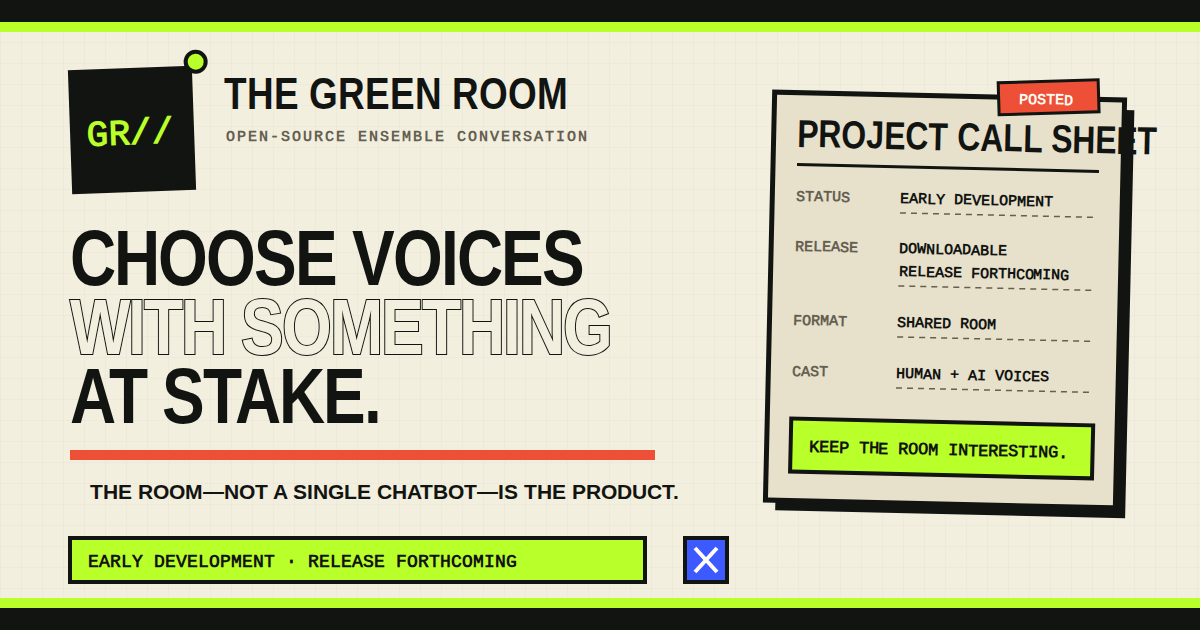
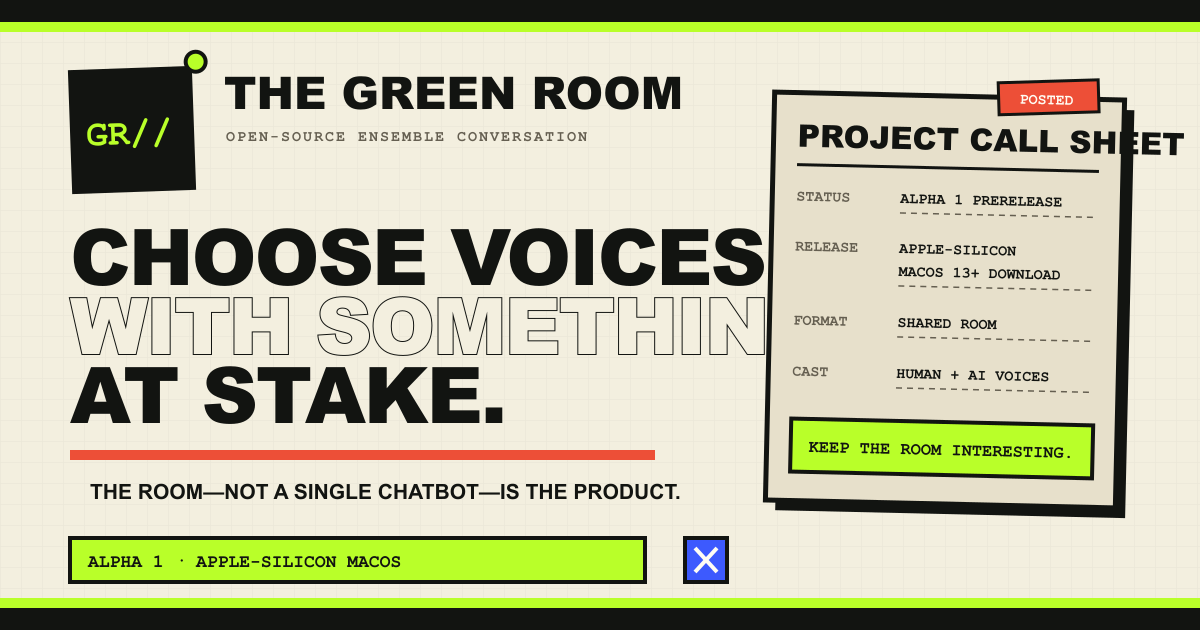
site: clarify Alpha 1 system requirements

diff --git a/site/download/index.html b/site/download/index.html
@@ -2,9 +2,9 @@
 <html lang="en">
 <head>
   <meta charset="utf-8"><meta name="viewport" content="width=device-width, initial-scale=1">
-  <meta name="description" content="Download The Green Room 0.1.0 Alpha 1 for Apple-silicon macOS and verify the exact published SHA256 checksum.">
-  <meta property="og:title" content="Download The Green Room Alpha 1"><meta property="og:description" content="Apple-silicon macOS prerelease with 19 preinstalled characters and local-first bring-your-own-model setup."><meta property="og:type" content="website"><meta property="og:image" content="https://greenroomai.net/assets/social-card.png"><meta property="og:image:alt" content="Backstage Electric Green Room project card with the GR slash mark, early-development status, and release-forthcoming call sheet.">
-  <meta name="twitter:card" content="summary_large_image"><meta name="twitter:image" content="https://greenroomai.net/assets/social-card.png"><meta name="twitter:image:alt" content="Backstage Electric Green Room project card with the GR slash mark, early-development status, and release-forthcoming call sheet."><link rel="canonical" href="https://greenroomai.net/download/"><link rel="icon" href="/assets/favicon.svg" type="image/svg+xml"><link rel="stylesheet" href="/assets/site.css">
+  <meta name="description" content="Download The Green Room 0.1.0 Alpha 1 for Apple-silicon Macs running macOS 13 or later and verify the exact published SHA256 checksum.">
+  <meta property="og:title" content="Download The Green Room Alpha 1"><meta property="og:description" content="Apple-silicon macOS 13+ prerelease with 19 preinstalled characters and local-first bring-your-own-model setup."><meta property="og:type" content="website"><meta property="og:image" content="https://greenroomai.net/assets/social-card.png"><meta property="og:image:alt" content="Backstage Electric Green Room project card announcing the Alpha 1 Apple-silicon macOS prerelease.">
+  <meta name="twitter:card" content="summary_large_image"><meta name="twitter:image" content="https://greenroomai.net/assets/social-card.png"><meta name="twitter:image:alt" content="Backstage Electric Green Room project card announcing the Alpha 1 Apple-silicon macOS prerelease."><link rel="canonical" href="https://greenroomai.net/download/"><link rel="icon" href="/assets/favicon.svg" type="image/svg+xml"><link rel="stylesheet" href="/assets/site.css">
   <meta http-equiv="Content-Security-Policy" content="default-src 'self'; base-uri 'self'; connect-src 'none'; form-action 'none'; object-src 'none'; style-src 'self'; img-src 'self'; font-src 'self'">
   <title>Download Alpha 1 — The Green Room</title>
 </head>
@@ -12,12 +12,12 @@
   <a class="skip-link" href="#main">Skip to main content</a><div class="topline" aria-hidden="true"></div>
   <header class="site-header"><div class="mast"><a class="mark" href="/" aria-label="The Green Room home">GR//</a><div class="wordmark">The Green Room<small>Ensemble conversation workshop</small></div><nav class="nav" aria-label="Primary navigation"><a href="/">Project</a><a href="/characters/">Characters</a><a href="/docs/">Docs</a><a href="/download/" aria-current="page">Download</a><a href="/contribute/">Contribute</a></nav></div></header>
   <main id="main">
-    <header class="page-hero"><span class="status-stamp">Release board / Alpha 1</span><h1>Alpha 1 <span class="outline">for Mac.</span></h1><p class="lede">An early prerelease for Apple-silicon macOS. Download the exact public ZIP from GitHub, then run The Green Room locally with your own compatible local or cloud model.</p><a class="button" href="https://github.com/Jdelg718/the-green-room/releases/download/v0.1.0-alpha.1/The-Green-Room-0.1.0-alpha.1-macos-arm64.zip">Download Alpha 1 for Apple silicon</a></header>
+    <header class="page-hero"><span class="status-stamp">Release board / Alpha 1</span><h1>Alpha 1 <span class="outline">for Mac.</span></h1><p class="lede">An early prerelease for Apple-silicon Macs running macOS 13 or later. Download the exact public ZIP from GitHub, then run The Green Room locally with your own compatible local or cloud model.</p><a class="button" href="https://github.com/Jdelg718/the-green-room/releases/download/v0.1.0-alpha.1/The-Green-Room-0.1.0-alpha.1-macos-arm64.zip">Download Alpha 1 for Apple silicon</a></header>
     <div class="marquee">Version 0.1.0 Alpha 1. <strong>● Local-first. Bring your own model. ●</strong></div>
     <section class="section split" aria-labelledby="included-title"><div><span class="kicker">Included / current build</span><h2 class="section-title" id="included-title">The room is ready.</h2></div><div class="prose"><p><strong>19 preinstalled characters</strong> are included: eighteen source-informed historical candidates and the creator-authorized FF2K original candidate. Preinstallation is not Official Catalog admission.</p><p>Your rooms and configuration stay with the local companion. Choose a compatible local or cloud model during local setup. A selected cloud provider receives the bounded context required for inference; this static website does not collect provider credentials, transcripts, rooms, events, memory, or model requests.</p></div></section>
-    <section class="section" aria-labelledby="install-title"><span class="kicker">Install / Apple silicon</span><h2 class="section-title" id="install-title">Four ordinary steps.</h2><ol class="steps"><li>Download the Alpha 1 ZIP from the button above.</li><li>Expand the ZIP in Finder.</li><li>Move The Green Room.app to Applications.</li><li>Open The Green Room normally from Applications.</li></ol></section>
+    <section class="section" aria-labelledby="install-title"><span class="kicker">Install / Apple silicon</span><h2 class="section-title" id="install-title">Four ordinary steps.</h2><ol class="steps"><li>Download the Alpha 1 ZIP from the button above.</li><li>Expand the ZIP in Finder.</li><li>Move The Green Room.app to your personal Applications folder (<code>~/Applications</code>).</li><li>Open The Green Room normally from your personal Applications folder.</li></ol></section>
     <section class="section split" aria-labelledby="verify-title"><div><span class="kicker">Integrity / exact release</span><h2 class="section-title" id="verify-title">Verify the ZIP.</h2></div><div class="notice"><h3>SHA256</h3><p class="checksum"><code>333f5cdd2e9c88e901cacd5cdad58109b67affc1f63cc5f98321644592bde469</code></p><p>File: <code>The-Green-Room-0.1.0-alpha.1-macos-arm64.zip</code></p><a class="button" href="https://github.com/Jdelg718/the-green-room/releases/download/v0.1.0-alpha.1/SHA256SUMS">Download SHA256SUMS</a></div></section>
-    <section class="section" aria-labelledby="limits-title"><span class="kicker">Alpha limitations / read first</span><h2 class="section-title" id="limits-title">Early software, narrow platform.</h2><div class="grid"><article class="card card-acid"><span class="number">PLATFORM 01</span><h3>Apple silicon only</h3><p>This Alpha 1 build requires Apple-silicon macOS. Intel Macs, Windows, and Linux are not supported by this download.</p></article><article class="card"><span class="number">ALPHA 02</span><h3>Expect rough edges</h3><p>This is early alpha software with incomplete workflows. Back up important local data and report reproducible problems.</p></article><article class="card card-dark"><span class="number">MOBILE 03</span><h3>No mobile app</h3><p>No iPhone or iPad app is included. Native Apple mobile clients remain future work.</p></article></div></section>
+    <section class="section" aria-labelledby="limits-title"><span class="kicker">Alpha limitations / read first</span><h2 class="section-title" id="limits-title">Early software, narrow platform.</h2><div class="grid"><article class="card card-acid"><span class="number">PLATFORM 01</span><h3>Apple silicon only</h3><p>This Alpha 1 build requires an Apple-silicon Mac running macOS 13 or later. Intel Macs, Windows, and Linux are not supported by this download.</p></article><article class="card"><span class="number">ALPHA 02</span><h3>Expect rough edges</h3><p>This is early alpha software with incomplete workflows. Back up important local data and report reproducible problems.</p></article><article class="card card-dark"><span class="number">MOBILE 03</span><h3>No mobile app</h3><p>No iPhone or iPad app is included. Native Apple mobile clients remain future work.</p></article></div></section>
     <section class="section"><div class="notice"><h2>Release records</h2><p>Read the prerelease notes, inspect the source, or report an issue. GitHub is the only official download location for Alpha 1.</p><p><a href="https://github.com/Jdelg718/the-green-room/releases/tag/v0.1.0-alpha.1">Release notes</a> · <a href="https://github.com/Jdelg718/the-green-room">Source</a> · <a href="https://github.com/Jdelg718/the-green-room/issues">Report issues</a></p></div></section>
   </main>
   <footer class="site-footer"><div class="footer-inner">Download board / Alpha 1 <span>Apple-silicon macOS · SHA256 published</span></div></footer>

diff --git a/site/characters/index.html b/site/characters/index.html
@@ -3,8 +3,8 @@
 <head>
   <meta charset="utf-8"><meta name="viewport" content="width=device-width, initial-scale=1">
   <meta name="description" content="Meet eighteen public historical profiles preinstalled as local-alpha candidates.">
-  <meta property="og:title" content="Characters — The Green Room"><meta property="og:description" content="Eighteen bounded educational profiles preinstalled locally; Official Catalog admission remains separate."><meta property="og:type" content="website"><meta property="og:url" content="https://greenroomai.net/characters/"><meta property="og:image" content="https://greenroomai.net/assets/social-card.png"><meta property="og:image:alt" content="Backstage Electric Green Room project card with the GR slash mark, early-development status, and release-forthcoming call sheet.">
-  <meta name="twitter:card" content="summary_large_image"><meta name="twitter:image" content="https://greenroomai.net/assets/social-card.png"><meta name="twitter:image:alt" content="Backstage Electric Green Room project card with the GR slash mark, early-development status, and release-forthcoming call sheet."><link rel="canonical" href="https://greenroomai.net/characters/"><link rel="icon" href="/assets/favicon.svg" type="image/svg+xml"><link rel="stylesheet" href="/assets/site.css">
+  <meta property="og:title" content="Characters — The Green Room"><meta property="og:description" content="Eighteen bounded educational profiles preinstalled locally; Official Catalog admission remains separate."><meta property="og:type" content="website"><meta property="og:url" content="https://greenroomai.net/characters/"><meta property="og:image" content="https://greenroomai.net/assets/social-card.png"><meta property="og:image:alt" content="Backstage Electric Green Room project card announcing the Alpha 1 Apple-silicon macOS prerelease.">
+  <meta name="twitter:card" content="summary_large_image"><meta name="twitter:image" content="https://greenroomai.net/assets/social-card.png"><meta name="twitter:image:alt" content="Backstage Electric Green Room project card announcing the Alpha 1 Apple-silicon macOS prerelease."><link rel="canonical" href="https://greenroomai.net/characters/"><link rel="icon" href="/assets/favicon.svg" type="image/svg+xml"><link rel="stylesheet" href="/assets/site.css">
   <meta http-equiv="Content-Security-Policy" content="default-src 'self'; base-uri 'self'; connect-src 'none'; form-action 'none'; object-src 'none'; style-src 'self'; img-src 'self'; font-src 'self'">
   <title>Characters — The Green Room</title>
 </head>

diff --git a/site/docs/index.html b/site/docs/index.html
@@ -3,8 +3,8 @@
 <head>
   <meta charset="utf-8"><meta name="viewport" content="width=device-width, initial-scale=1">
   <meta name="description" content="Green Room project notes: local-first architecture, provider boundaries, ensemble behavior, and public-site responsibilities.">
-  <meta property="og:title" content="Green Room docs — working notes"><meta property="og:description" content="The architecture and trust boundary for a standalone, local-first ensemble conversation project."><meta property="og:type" content="website"><meta property="og:image" content="https://greenroomai.net/assets/social-card.png"><meta property="og:image:alt" content="Backstage Electric Green Room project card with the GR slash mark, early-development status, and release-forthcoming call sheet.">
-  <meta name="twitter:card" content="summary_large_image"><meta name="twitter:image" content="https://greenroomai.net/assets/social-card.png"><meta name="twitter:image:alt" content="Backstage Electric Green Room project card with the GR slash mark, early-development status, and release-forthcoming call sheet."><link rel="canonical" href="https://greenroomai.net/docs/"><link rel="icon" href="/assets/favicon.svg" type="image/svg+xml"><link rel="stylesheet" href="/assets/site.css">
+  <meta property="og:title" content="Green Room docs — working notes"><meta property="og:description" content="The architecture and trust boundary for a standalone, local-first ensemble conversation project."><meta property="og:type" content="website"><meta property="og:image" content="https://greenroomai.net/assets/social-card.png"><meta property="og:image:alt" content="Backstage Electric Green Room project card announcing the Alpha 1 Apple-silicon macOS prerelease.">
+  <meta name="twitter:card" content="summary_large_image"><meta name="twitter:image" content="https://greenroomai.net/assets/social-card.png"><meta name="twitter:image:alt" content="Backstage Electric Green Room project card announcing the Alpha 1 Apple-silicon macOS prerelease."><link rel="canonical" href="https://greenroomai.net/docs/"><link rel="icon" href="/assets/favicon.svg" type="image/svg+xml"><link rel="stylesheet" href="/assets/site.css">
   <meta http-equiv="Content-Security-Policy" content="default-src 'self'; base-uri 'self'; connect-src 'none'; form-action 'none'; object-src 'none'; style-src 'self'; img-src 'self'; font-src 'self'">
   <title>Docs — The Green Room</title>
 </head>

diff --git a/site/contribute/index.html b/site/contribute/index.html
@@ -3,8 +3,8 @@
 <head>
   <meta charset="utf-8"><meta name="viewport" content="width=device-width, initial-scale=1">
   <meta name="description" content="Contribute to The Green Room through focused issues and pull requests while preserving local-first, security, and content boundaries.">
-  <meta property="og:title" content="Contribute — The Green Room"><meta property="og:description" content="Focused contributions for a standalone, local-first ensemble conversation project."><meta property="og:type" content="website"><meta property="og:image" content="https://greenroomai.net/assets/social-card.png"><meta property="og:image:alt" content="Backstage Electric Green Room project card with the GR slash mark, early-development status, and release-forthcoming call sheet.">
-  <meta name="twitter:card" content="summary_large_image"><meta name="twitter:image" content="https://greenroomai.net/assets/social-card.png"><meta name="twitter:image:alt" content="Backstage Electric Green Room project card with the GR slash mark, early-development status, and release-forthcoming call sheet."><link rel="canonical" href="https://greenroomai.net/contribute/"><link rel="icon" href="/assets/favicon.svg" type="image/svg+xml"><link rel="stylesheet" href="/assets/site.css">
+  <meta property="og:title" content="Contribute — The Green Room"><meta property="og:description" content="Focused contributions for a standalone, local-first ensemble conversation project."><meta property="og:type" content="website"><meta property="og:image" content="https://greenroomai.net/assets/social-card.png"><meta property="og:image:alt" content="Backstage Electric Green Room project card announcing the Alpha 1 Apple-silicon macOS prerelease.">
+  <meta name="twitter:card" content="summary_large_image"><meta name="twitter:image" content="https://greenroomai.net/assets/social-card.png"><meta name="twitter:image:alt" content="Backstage Electric Green Room project card announcing the Alpha 1 Apple-silicon macOS prerelease."><link rel="canonical" href="https://greenroomai.net/contribute/"><link rel="icon" href="/assets/favicon.svg" type="image/svg+xml"><link rel="stylesheet" href="/assets/site.css">
   <meta http-equiv="Content-Security-Policy" content="default-src 'self'; base-uri 'self'; connect-src 'none'; form-action 'none'; object-src 'none'; style-src 'self'; img-src 'self'; font-src 'self'">
   <title>Contribute — The Green Room</title>
 </head>

diff --git a/site/index.html b/site/index.html
@@ -10,10 +10,10 @@
   <meta property="og:type" content="website">
   <meta property="og:url" content="https://greenroomai.net/">
   <meta property="og:image" content="https://greenroomai.net/assets/social-card.png">
-  <meta property="og:image:alt" content="Backstage Electric Green Room project card with the GR slash mark, early-development status, and release-forthcoming call sheet.">
+  <meta property="og:image:alt" content="Backstage Electric Green Room project card announcing the Alpha 1 Apple-silicon macOS prerelease.">
   <meta name="twitter:card" content="summary_large_image">
   <meta name="twitter:image" content="https://greenroomai.net/assets/social-card.png">
-  <meta name="twitter:image:alt" content="Backstage Electric Green Room project card with the GR slash mark, early-development status, and release-forthcoming call sheet.">
+  <meta name="twitter:image:alt" content="Backstage Electric Green Room project card announcing the Alpha 1 Apple-silicon macOS prerelease.">
   <meta name="twitter:title" content="The Green Room — call the room">
   <meta name="twitter:description" content="A local-first ensemble conversation playground. Alpha 1 for Apple-silicon macOS.">
   <link rel="canonical" href="https://greenroomai.net/">

diff --git a/site/scripts/validate.py b/site/scripts/validate.py
@@ -154,11 +154,11 @@ PROFILE_SOURCE_SHA256 = {
[1 lines of base64/hex data omitted]
 }
[3 lines of base64/hex data omitted]
 SOCIAL_CARD_DIMENSIONS = (1200, 630)
 SOCIAL_CARD_ALT = (
-    "Backstage Electric Green Room project card with the GR slash mark, "
-    "early-development status, and release-forthcoming call sheet."
+    "Backstage Electric Green Room project card announcing the Alpha 1 "
+    "Apple-silicon macOS prerelease."
 )
 SOCIAL_CARD_PAGES = frozenset(
     {
@@ -232,12 +232,14 @@ REQUIRED_LANGUAGE = {
     "download/index.html": (
         "Alpha 1",
         "Apple-silicon macOS",
+        "macOS 13 or later",
         "19 preinstalled characters",
         "local or cloud model",
         "No iPhone or iPad app",
         "early alpha software",
         ALPHA_SHA256,
-        "Move The Green Room.app to Applications",
+        "Move The Green Room.app to your personal Applications folder",
+        "~/Applications",
     ),
     "contribute/index.html": ("GitHub", "content and legal boundaries"),
 }
